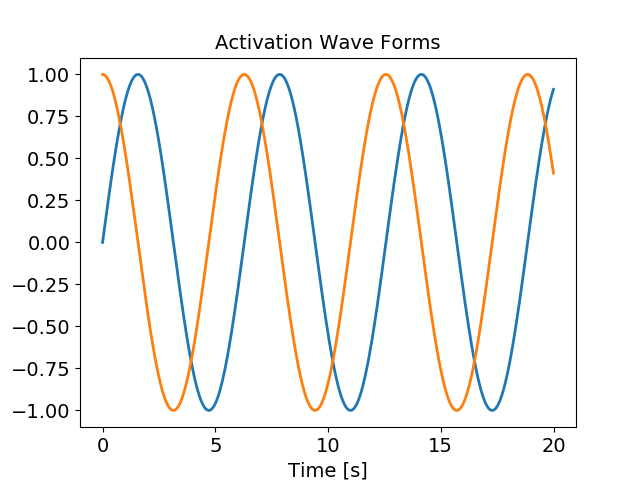
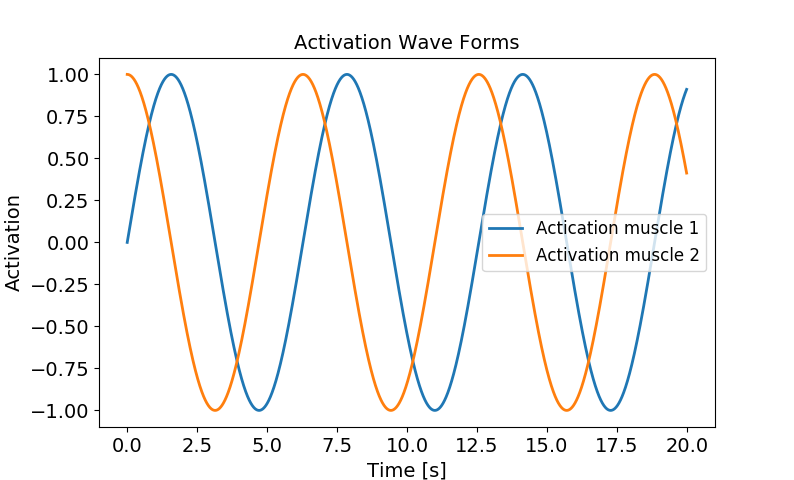
add figure for wave forms and some changes in exercise2

diff --git a/Project2/Python/exercise2.py b/Project2/Python/exercise2.py
@@ -114,7 +114,7 @@ def exercise2b():
     #act1 = np.ones((len(time), 1)) * 1.
     #act2 = np.ones((len(time), 1)) * 0.05
     act1 = np.array([np.sin(time)]).T
-    act2 = np.array([np.cos(time)]).T
+    act2 = np.array([-np.sin(time)]).T
 
     activations = np.hstack((act1, act2))
 
@@ -187,7 +187,10 @@ def exercise2b():
     plt.plot(time, act2)
     plt.xlabel('Time [s]')
     plt.ylabel('Activation')
+    plt.legend(('Actication muscle 1','Activation muscle 2'))
     plt.grid
+    
+    poincare_crossings(res1, 0.5, 1, "poincare_cross")
 
     # To animate the model, use the SystemAnimation class
     # Pass the res(states) and systems you wish to animate
@@ -271,7 +274,7 @@ def exercise2c():
 
     for freq in frequencies:
         act1 = np.array([np.sin(freq*time)]).T
-        act2 = np.array([np.cos(freq*time)]).T
+        act2 = np.array([-np.sin(freq*time)]).T
     
         activations = np.hstack((act1, act2))
     
@@ -307,7 +310,7 @@ def exercise2c():
 
     for amp in amplitudes:
         act1 = np.array([amp*np.sin(time)]).T
-        act2 = np.array([amp*np.cos(time)]).T
+        act2 = np.array([amp*(-np.sin(time))]).T
     
         activations = np.hstack((act1, act2))
     
@@ -344,17 +347,17 @@ def poincare_crossings(res, threshold, crossing_index, figure):
     ci = crossing_index
 
     # Extract state of first trajectory
-    state = np.array(res.state[0])
+    state = res[:,2]
 
     # Crossing index (index corrsponds to last point before crossing)
-    idx = np.argwhere(np.diff(np.sign(state[:, ci] - threshold)) < 0)
+    idx = np.argwhere(np.diff(np.sign(state[ci, 2] - threshold)) < 0)
     # pylog.debug("Indices:\n{}".format(idx))  # Show crossing indices
 
     # Linear interpolation to find crossing position on threshold
     # Position before crossing
-    pos_pre = np.array([state[index[0], :] for index in idx])
+    pos_pre = np.array([state[index[0], 2] for index in idx])
     # Position after crossing
-    pos_post = np.array([state[index[0]+1, :] for index in idx])
+    pos_post = np.array([state[index[0]+1, 2] for index in idx])
     # Position on threshold
     pos_treshold = [
         (
@@ -373,8 +376,8 @@ def poincare_crossings(res, threshold, crossing_index, figure):
     val_max = np.sort(pos_treshold)[-2]
     bnd = 0.3*(val_max - val_min)
     plt.ylim([val_min-bnd, val_max+bnd])
-    plt.xlabel(u"Number of Poincaré section crossings")
-    plt.ylabel("Value for Neuron 1 (Neuron 2 = {})".format(threshold))
+    plt.xlabel("Number of Poincaré section crossings")
+    plt.ylabel(" (Neuron 2 = {})".format(threshold))
     plt.grid(True)
 
     # Figure limit cycle
@@ -403,7 +406,7 @@ def exercise2():
     """ Main function to run for Exercise 2.
 
     """
-    exercise2c();
+    exercise2b();
    
     if not DEFAULT["save_figures"]:
         plt.show()
